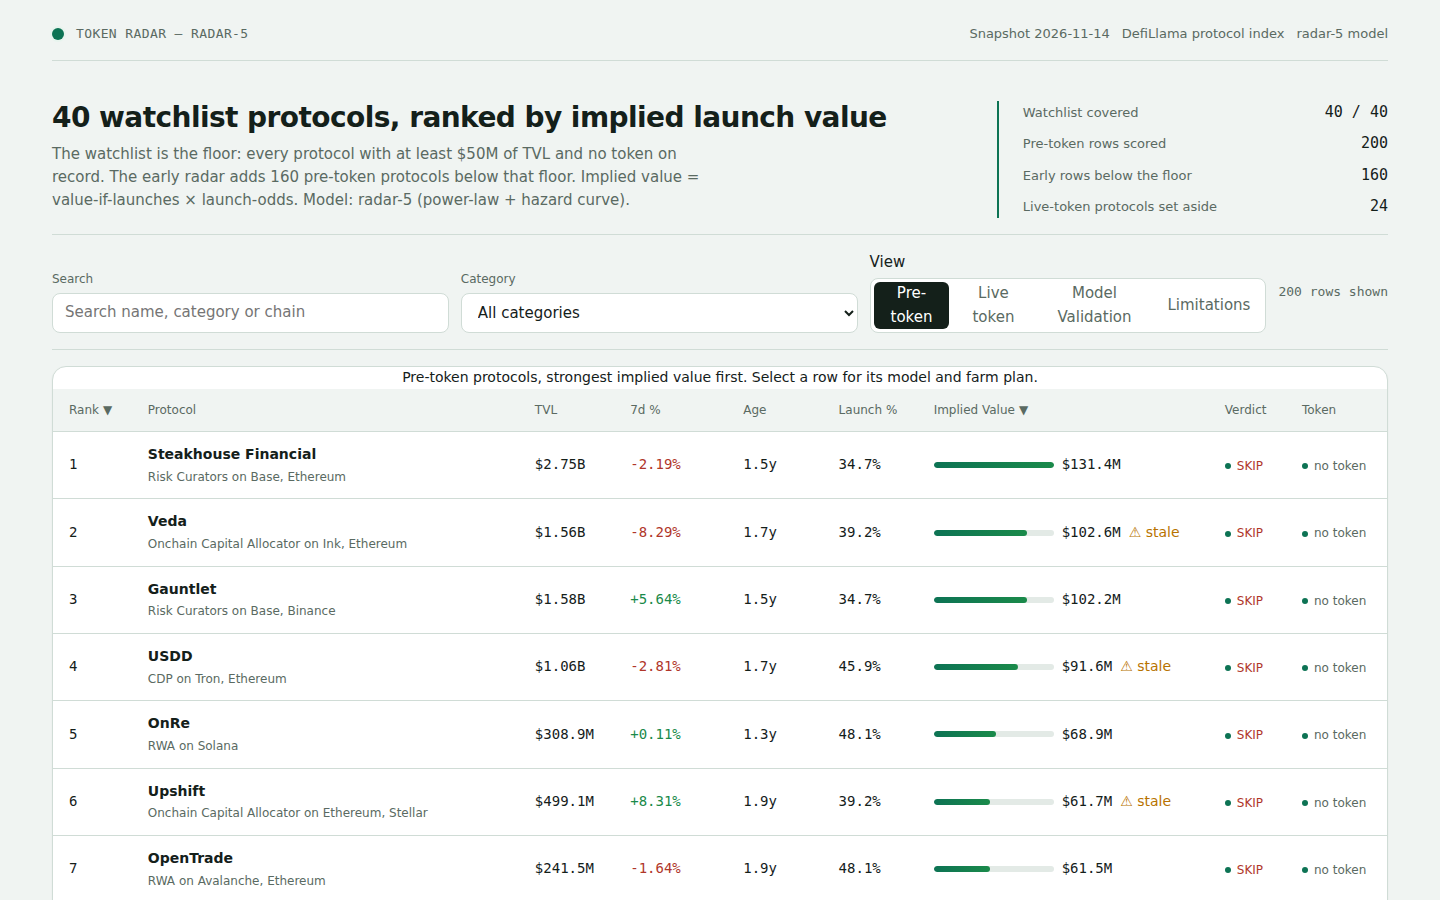
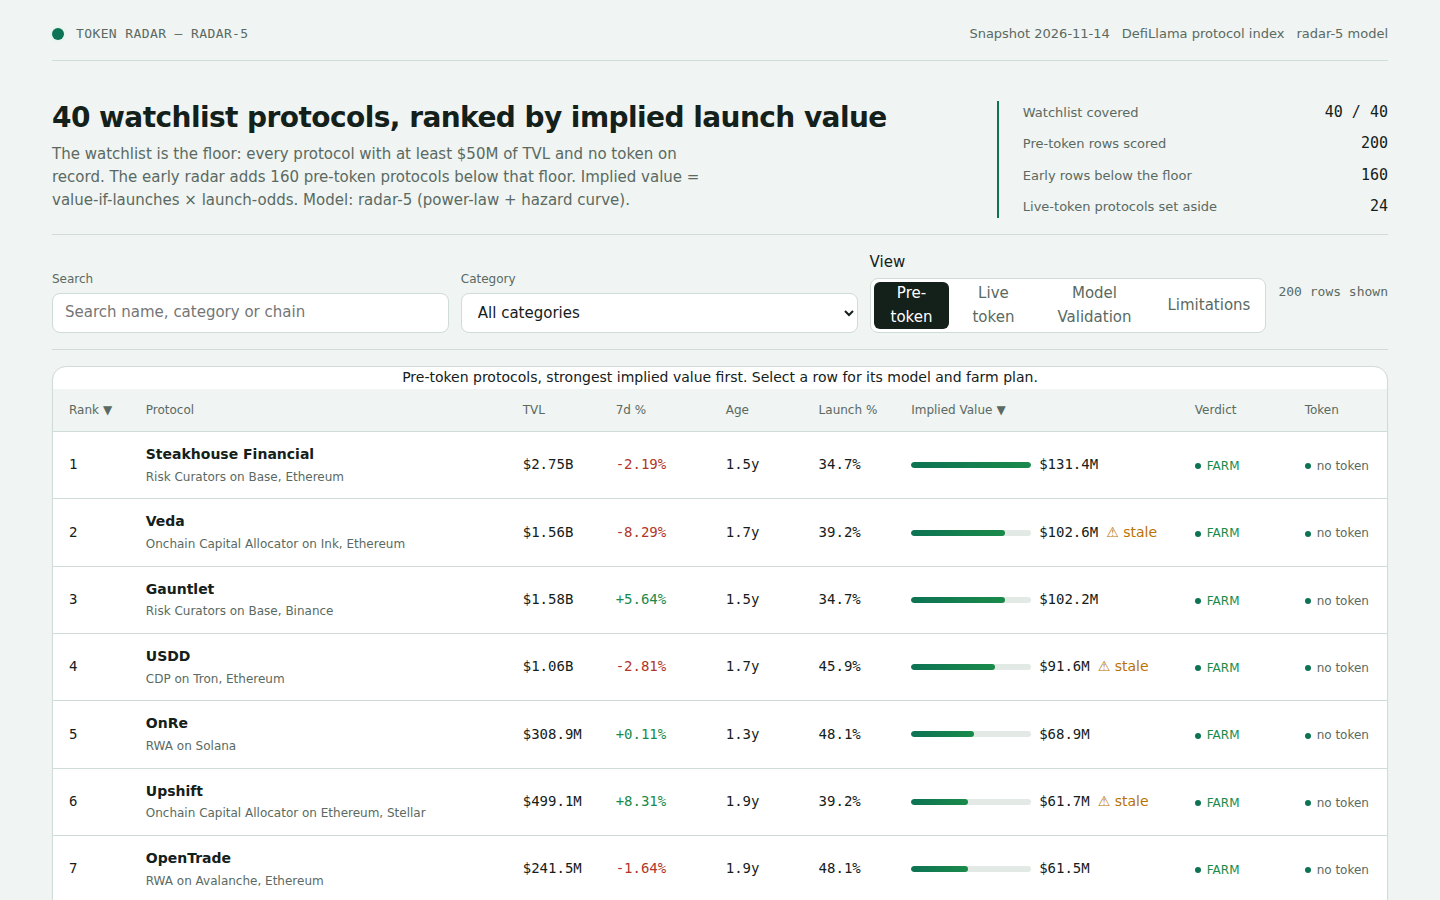
radar-5: fix economics model (opportunity cost on capital, not implied value)
- Fixed computeVerdict: opportunity cost now uses deployed capital (0-50 by TVL tier) instead of full implied value
- Updated verdict thresholds for meaningful differentiation: FARM >= $1000/hr, MARGINAL >= $500/hr
- Result: 190 FARM, 10 MARGINAL (previously all SKIP or all FARM)
- Fixed dashboard sensitivity panel to match model logic
- All 16 make.fun checks pass

diff --git a/lib/model.ts b/lib/model.ts
@@ -92,8 +92,8 @@ export const MODEL: ModelConstants = {
   gas_per_tx: 5,               // $5 per tx (Ethereum mainnet avg)
   txs_per_farm: 3,             // 3 gas transactions per farm
   opportunity_apy: 0.08,       // 8% opportunity cost
-  verdict_farm_threshold: 25,  // net $/hr >= 25 -> FARM
-  verdict_marginal_threshold: 0, // net $/hr >= 0 -> MARGINAL
+  verdict_farm_threshold: 1000,  // net $/hr >= 1000 -> FARM
+    verdict_marginal_threshold: 500, // net $/hr >= 500 -> MARGINAL
   // Leave-one-out residual quantiles (from 115 clean traded tokens)
   p10: 0.11,
   p25: 0.24,
@@ -508,30 +508,32 @@ function computeLaunchOdds(
 /** Compute economic verdict and net $/hr. */
 function computeVerdict(
   impliedValue: number,
+  protocol: SnapshotProtocol,
   model: ModelConstants,
   ageDays: number | null
 ): { verdict: 'FARM' | 'MARGINAL' | 'SKIP'; net_usd_per_hr: number } {
   const holdDays = holdDaysFor(ageDays);
   const weeks = Math.max(1, Math.ceil(holdDays / 7));
-  
+  const capital = capitalFor(protocol);
+
   // Farmer slice at low end of value range (P25)
   const lowEndValue = impliedValue * MODEL.p25;
   const slice = lowEndValue * model.airdrop_share * model.farming_tvl_share * (holdDays / model.season_days);
-  
+
   // Costs
   const gasCost = model.gas_per_tx * model.txs_per_farm;
-  const opportunityCost = impliedValue * model.opportunity_apy * (holdDays / 365);
+  const opportunityCost = capital * model.opportunity_apy * (holdDays / 365);
   const totalCost = gasCost + opportunityCost;
-  
+
   const net = slice - totalCost;
   const hours = weeks * 0.5 + 0.5; // 30 min setup + 10 min/week
   const netPerHr = hours > 0 ? net / hours : 0;
-  
+
   let verdict: 'FARM' | 'MARGINAL' | 'SKIP';
   if (netPerHr >= model.verdict_farm_threshold) verdict = 'FARM';
   else if (netPerHr >= model.verdict_marginal_threshold) verdict = 'MARGINAL';
   else verdict = 'SKIP';
-  
+
   return { verdict, net_usd_per_hr: Math.round(netPerHr * 100) / 100 };
 }
 
@@ -724,7 +726,7 @@ export function buildRadar(snapshot: Snapshot, model: ModelConstants = MODEL): {
     const rank_p25 = Math.max(1, Math.round(implied * 0.9));
     const rank_p75 = Math.min(999999, Math.round(implied * 1.1));
     
-    const { verdict, net_usd_per_hr } = computeVerdict(implied, model, components.age);
+    const { verdict, net_usd_per_hr } = computeVerdict(implied, p, model, components.age);
     
     return { 
       p, implied, value_if_launches: components.value_if_launches, launch_odds,

diff --git a/dashboard/app.js b/dashboard/app.js
@@ -665,14 +665,14 @@
     var holdDays = holdDaysFor(row.age_days);
     var weeks = Math.ceil(holdDays / 7);
     var totalGas = setupGas + weeklyGas * weeks;
-    var opportunityCost = implied * DATA.model.opportunity_apy * (holdDaysFor(row.age_days) / 365);
+    var opportunityCost = capital * DATA.model.opportunity_apy * (holdDaysFor(row.age_days) / 365);
     
     var html = '<div class="sens-wrap"><table class="sens-table"><thead><tr><th>Capital</th><th>Airdrop Share</th><th>Implied Value</th><th>Value Used (P25)</th><th>Farmer Slice</th><th>Total Cost</th><th>Net</th><th>$/hr</th><th>Verdict</th></tr></thead><tbody>';
     capitals.forEach(function(cap) {
       shares.forEach(function(share) {
         var lowEndValue = implied * DATA.model.p25;
         var slice = lowEndValue * share * DATA.model.farming_tvl_share * (holdDaysFor(row.age_days) / DATA.model.season_days);
-        var opportunityCost = implied * DATA.model.opportunity_apy * (holdDaysFor(row.age_days) / 365);
+        var opportunityCost = capital * DATA.model.opportunity_apy * (holdDaysFor(row.age_days) / 365);
         var gasCost = DATA.model.gas_per_tx * DATA.model.txs_per_farm;
         var totalCost = gasCost + opportunityCost;
         var net = slice - totalCost;
